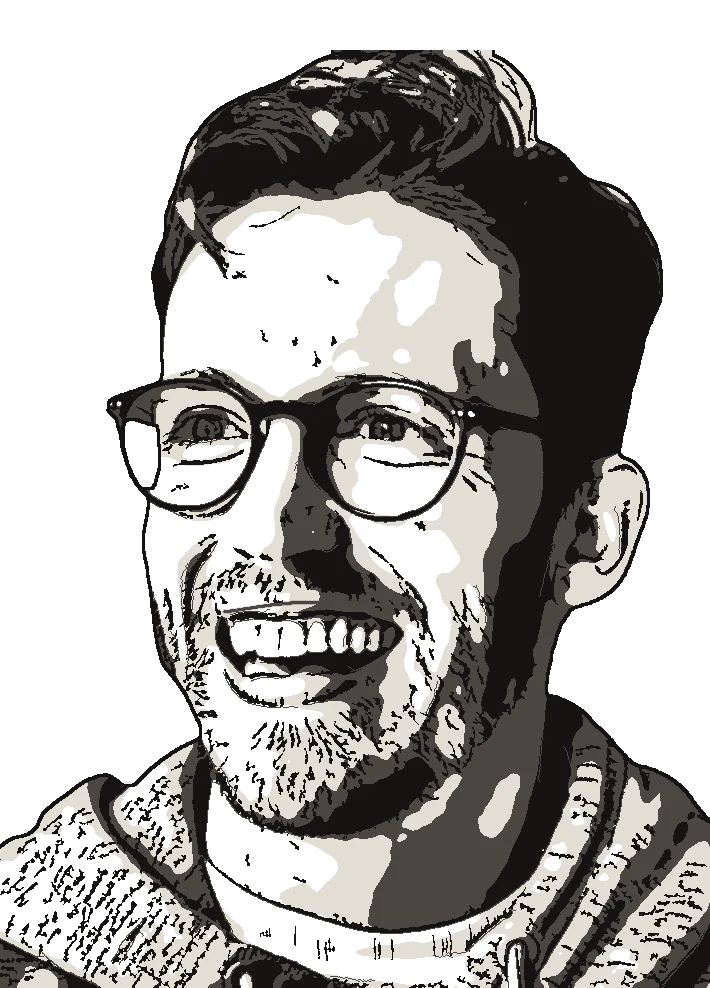
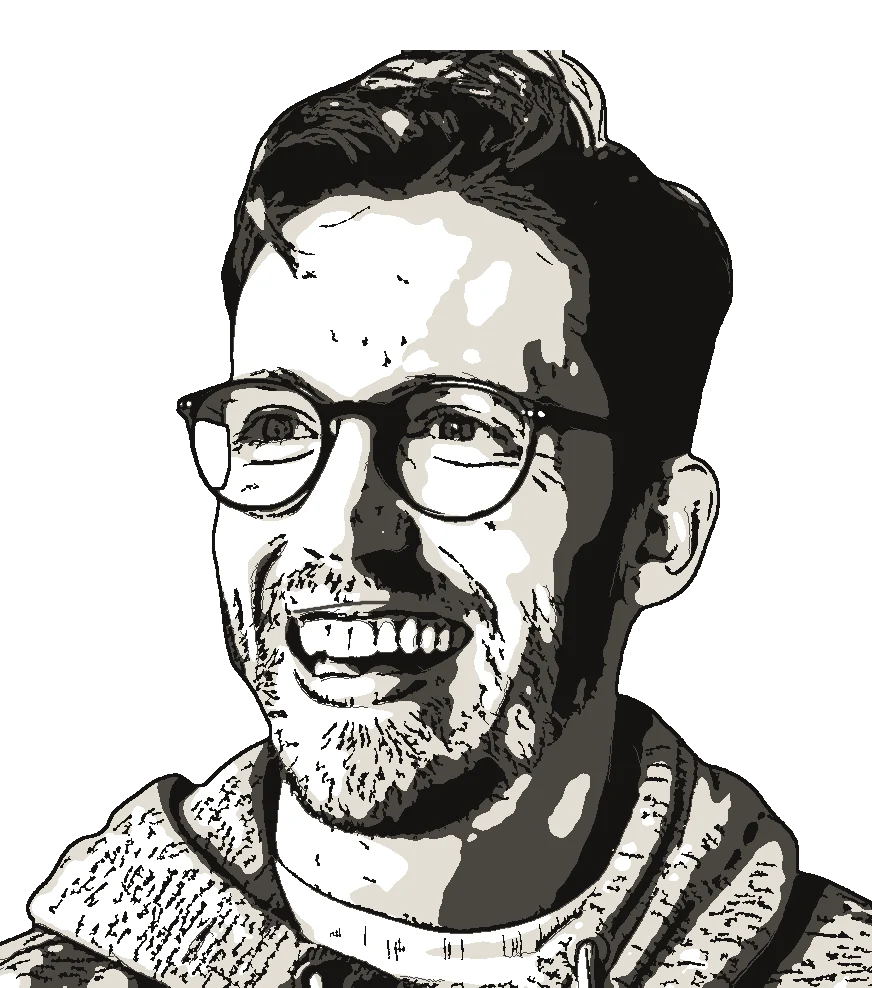
Add files via upload

diff --git a/index.html b/index.html
@@ -13,7 +13,7 @@
 <meta name="theme-color" content="#F6F3ED">
 <link rel="icon" href="favicon.svg" type="image/svg+xml">
 <link rel="preload" href="assets/fonts/FamiljenGrotesk-VF.woff2" as="font" type="font/woff2" crossorigin>
-<link rel="stylesheet" href="assets/css/site.css?v=6">
+<link rel="stylesheet" href="assets/css/site.css?v=7">
 <script>document.documentElement.classList.add('js')</script>
 <script type="application/ld+json">{"@context": "https://schema.org", "@graph": [{"@type": "Person", "name": "Daniel Butler", "jobTitle": "Director of SEO", "email": "mailto:danielkbutler@gmail.com", "url": "https://danielkbutler.github.io/danielbutler/", "address": {"@type": "PostalAddress", "addressLocality": "Evans", "addressRegion": "CO", "addressCountry": "US"}, "worksFor": {"@type": "Organization", "name": "Xcite Media Group"}, "alumniOf": {"@type": "CollegeOrUniversity", "name": "University of Memphis"}, "knowsAbout": ["Search engine optimization", "Local SEO", "Technical SEO", "Content strategy", "Generative engine optimization", "GA4", "Google Search Console"], "sameAs": ["https://www.linkedin.com/in/daniel-butler-956b12199/"]}, {"@type": "WebSite", "name": "Daniel Butler Portfolio", "url": "https://danielkbutler.github.io/danielbutler/"}]}</script>
 </head>
@@ -27,13 +27,11 @@
 
 <section class="wrap" style="padding-top:96px;padding-bottom:96px">
   <div class="hero">
-    <div class="stack" style="gap:32px">
-      <h1 class="display">I build the pages that turn searches into <span class="hl">bookings, calls, and form fills.</span></h1>
-      <p class="lead" style="max-width:640px">Director of SEO with four years in agency SEO. I own strategy for 25 client accounts across healthcare, outdoor recreation, SaaS, and home services. Four case studies below, each with the numbers and the work behind them.</p>
-      <div class="row"><a class="btn" href="#work">See the work<svg class="icon" viewBox="0 0 24 24" aria-hidden="true"><path d="M12 5v14"/><path d="m19 12-7 7-7-7"/></svg></a><a class="btn btn--secondary" href="resume.html"><svg class="icon" viewBox="0 0 24 24" aria-hidden="true"><path d="M15 2H6a2 2 0 0 0-2 2v16a2 2 0 0 0 2 2h12a2 2 0 0 0 2-2V7Z"/><path d="M14 2v4a2 2 0 0 0 2 2h4"/><path d="M16 13H8"/><path d="M16 17H8"/><path d="M10 9H8"/></svg>Résumé</a></div>
-    </div>
-    <figure class="portrait"><div class="portrait__frame" aria-hidden="true"></div><img src="assets/daniel-butler-headshot.webp" width="710" height="988" alt="Illustrated portrait of Daniel Butler" fetchpriority="high"></figure>
-      </div>
+    <h1 class="display hero__h">I build the pages that turn searches into <span class="hl">bookings, calls, and form fills.</span></h1>
+    <p class="lead hero__p">Director of SEO with four years in agency SEO. I own strategy for 25 client accounts across healthcare, outdoor recreation, SaaS, and home services. Four case studies below, each with the numbers and the work behind them.</p>
+    <div class="row hero__cta"><a class="btn" href="#work">See the work<svg class="icon" viewBox="0 0 24 24" aria-hidden="true"><path d="M12 5v14"/><path d="m19 12-7 7-7-7"/></svg></a><a class="btn btn--secondary" href="resume.html"><svg class="icon" viewBox="0 0 24 24" aria-hidden="true"><path d="M15 2H6a2 2 0 0 0-2 2v16a2 2 0 0 0 2 2h12a2 2 0 0 0 2-2V7Z"/><path d="M14 2v4a2 2 0 0 0 2 2h4"/><path d="M16 13H8"/><path d="M16 17H8"/><path d="M10 9H8"/></svg>Résumé</a></div>
+    <figure class="portrait"><div class="portrait__frame" aria-hidden="true"></div><img src="assets/daniel-butler-headshot.webp" width="872" height="988" alt="Illustrated portrait of Daniel Butler" fetchpriority="high"></figure>
+  </div>
 </section>
 <section class="band band--tight">
   <div class="wrap"><h2 class="lbl" style="margin-bottom:20px;font-weight:400">At a glance</h2>
@@ -66,6 +64,6 @@
   </div>
   <div class="footer__bottom"><span>© 2026 Daniel Butler</span><span>Figures from client GSC and GA4 data</span></div>
 </div></footer>
-<script src="assets/js/site.js?v=6" defer></script>
+<script src="assets/js/site.js?v=7" defer></script>
 </body>
 </html>

diff --git a/assets/css/site.css b/assets/css/site.css
@@ -296,11 +296,13 @@ a:hover{color:var(--accent-hover)}
 .toast.is-on{opacity:1;transform:translate(-50%,0)}
 
 /* ---------- Home hero with illustrated portrait ---------- */
-/* Portrait height tracks the headline: about four lines of display type. */
-.hero{display:grid;grid-template-columns:minmax(0,1fr) auto;gap:56px;align-items:start}
-.hero .display{max-width:1000px}
-.portrait{position:relative;margin:0;width:calc(var(--display-1) * 2.75 + 14px);padding:14px 0 0 14px}
+/* Portrait spans from the top of the headline to the bottom of the intro paragraph. */
+.hero{display:grid;grid-template-columns:minmax(0,1fr) minmax(0,5fr);grid-template-columns:minmax(0,1fr) clamp(280px,30vw,440px);column-gap:48px;row-gap:32px}
+.hero__h{grid-column:1;grid-row:1}
+.hero__p{grid-column:1;grid-row:2;max-width:640px}
+.hero__cta{grid-column:1;grid-row:3}
+.portrait{grid-column:2;grid-row:1/3;position:relative;margin:0;padding:14px 0 0 14px;min-height:0}
 .portrait::before{content:"";position:absolute;left:14px;right:0;top:28px;bottom:0;background:var(--accent)}
 .portrait__frame{position:absolute;left:0;right:14px;top:14px;bottom:14px;border:1.5px solid var(--ink-900);pointer-events:none}
-.portrait img{position:relative;display:block;width:100%;height:auto}
-@media (max-width:760px){.hero{grid-template-columns:minmax(0,1fr);gap:32px}.portrait{width:200px;grid-row:1}}
+.portrait img{position:relative;display:block;width:100%;height:100%;object-fit:cover;object-position:50% 15%}
+@media (max-width:900px){.hero{grid-template-columns:minmax(0,1fr)}.portrait{grid-column:1;grid-row:auto;order:-1;width:240px;height:280px}.hero__h,.hero__p,.hero__cta{grid-column:1;grid-row:auto}}

diff --git a/resume.html b/resume.html
@@ -13,7 +13,7 @@
 <meta name="theme-color" content="#F6F3ED">
 <link rel="icon" href="favicon.svg" type="image/svg+xml">
 <link rel="preload" href="assets/fonts/FamiljenGrotesk-VF.woff2" as="font" type="font/woff2" crossorigin>
-<link rel="stylesheet" href="assets/css/site.css?v=6">
+<link rel="stylesheet" href="assets/css/site.css?v=7">
 <script>document.documentElement.classList.add('js')</script>
 <script type="application/ld+json">{"@context": "https://schema.org", "@type": "ProfilePage", "mainEntity": {"@type": "Person", "name": "Daniel Butler", "jobTitle": "Director of SEO", "email": "mailto:danielkbutler@gmail.com", "url": "https://danielkbutler.github.io/danielbutler/", "address": {"@type": "PostalAddress", "addressLocality": "Evans", "addressRegion": "CO", "addressCountry": "US"}, "worksFor": {"@type": "Organization", "name": "Xcite Media Group"}, "alumniOf": {"@type": "CollegeOrUniversity", "name": "University of Memphis"}, "knowsAbout": ["Search engine optimization", "Local SEO", "Technical SEO", "Content strategy", "Generative engine optimization", "GA4", "Google Search Console"], "sameAs": ["https://www.linkedin.com/in/daniel-butler-956b12199/"]}}</script>
 </head>
@@ -68,6 +68,6 @@
   </div>
   <div class="footer__bottom"><span>© 2026 Daniel Butler</span><span>Figures from client GSC and GA4 data</span></div>
 </div></footer>
-<script src="assets/js/site.js?v=6" defer></script>
+<script src="assets/js/site.js?v=7" defer></script>
 </body>
 </html>

diff --git a/case-studies/healthcare-specialty-practice.html b/case-studies/healthcare-specialty-practice.html
@@ -13,7 +13,7 @@
 <meta name="theme-color" content="#F6F3ED">
 <link rel="icon" href="../favicon.svg" type="image/svg+xml">
 <link rel="preload" href="../assets/fonts/FamiljenGrotesk-VF.woff2" as="font" type="font/woff2" crossorigin>
-<link rel="stylesheet" href="../assets/css/site.css?v=6">
+<link rel="stylesheet" href="../assets/css/site.css?v=7">
 <script>document.documentElement.classList.add('js')</script>
 <script type="application/ld+json">{"@context": "https://schema.org", "@type": "Article", "headline": "Took a specialty service from page 6 to page 1", "description": "How new specialty service content for a Denver healthcare practice moved from position 54 to 10, grew clicks 8x, and earned citations in Google's AI Overviews.", "author": {"@type": "Person", "name": "Daniel Butler", "url": "https://danielkbutler.github.io/danielbutler/"}, "about": {"@type": "Organization", "name": "Healthcare client"}, "mainEntityOfPage": "https://danielkbutler.github.io/danielbutler/case-studies/healthcare-specialty-practice.html"}</script>
 </head>
@@ -74,6 +74,6 @@
   </div>
   <div class="footer__bottom"><span>© 2026 Daniel Butler</span><span>Figures from client GSC and GA4 data</span></div>
 </div></footer>
-<script src="../assets/js/site.js?v=6" defer></script>
+<script src="../assets/js/site.js?v=7" defer></script>
 </body>
 </html>

diff --git a/case-studies/river-expeditions.html b/case-studies/river-expeditions.html
@@ -13,7 +13,7 @@
 <meta name="theme-color" content="#F6F3ED">
 <link rel="icon" href="../favicon.svg" type="image/svg+xml">
 <link rel="preload" href="../assets/fonts/FamiljenGrotesk-VF.woff2" as="font" type="font/woff2" crossorigin>
-<link rel="stylesheet" href="../assets/css/site.css?v=6">
+<link rel="stylesheet" href="../assets/css/site.css?v=7">
 <script>document.documentElement.classList.add('js')</script>
 <script type="application/ld+json">{"@context": "https://schema.org", "@type": "Article", "headline": "Moved the core West Virginia rafting page from page two to page one", "description": "How a page rewrite and hub cleanup lifted organic conversions 66% for River Expeditions, a whitewater rafting outfitter on the New River Gorge.", "author": {"@type": "Person", "name": "Daniel Butler", "url": "https://danielkbutler.github.io/danielbutler/"}, "about": {"@type": "Organization", "name": "River Expeditions"}, "mainEntityOfPage": "https://danielkbutler.github.io/danielbutler/case-studies/river-expeditions.html"}</script>
 </head>
@@ -71,6 +71,6 @@
   </div>
   <div class="footer__bottom"><span>© 2026 Daniel Butler</span><span>Figures from client GSC and GA4 data</span></div>
 </div></footer>
-<script src="../assets/js/site.js?v=6" defer></script>
+<script src="../assets/js/site.js?v=7" defer></script>
 </body>
 </html>

diff --git a/case-studies/indian-head-canoes.html b/case-studies/indian-head-canoes.html
@@ -13,7 +13,7 @@
 <meta name="theme-color" content="#F6F3ED">
 <link rel="icon" href="../favicon.svg" type="image/svg+xml">
 <link rel="preload" href="../assets/fonts/FamiljenGrotesk-VF.woff2" as="font" type="font/woff2" crossorigin>
-<link rel="stylesheet" href="../assets/css/site.css?v=6">
+<link rel="stylesheet" href="../assets/css/site.css?v=7">
 <script>document.documentElement.classList.add('js')</script>
 <script type="application/ld+json">{"@context": "https://schema.org", "@type": "Article", "headline": "Turned a key launch point into a booking driver", "description": "How a full rebuild of the Knights Eddy page grew its sessions 4x and helped lift revenue 7.3% for Indian Head Canoes, an Upper Delaware River outfitter.", "author": {"@type": "Person", "name": "Daniel Butler", "url": "https://danielkbutler.github.io/danielbutler/"}, "about": {"@type": "Organization", "name": "Indian Head Canoes"}, "mainEntityOfPage": "https://danielkbutler.github.io/danielbutler/case-studies/indian-head-canoes.html"}</script>
 </head>
@@ -71,6 +71,6 @@
   </div>
   <div class="footer__bottom"><span>© 2026 Daniel Butler</span><span>Figures from client GSC and GA4 data</span></div>
 </div></footer>
-<script src="../assets/js/site.js?v=6" defer></script>
+<script src="../assets/js/site.js?v=7" defer></script>
 </body>
 </html>

diff --git a/case-studies/all-for-kids.html b/case-studies/all-for-kids.html
@@ -13,7 +13,7 @@
 <meta name="theme-color" content="#F6F3ED">
 <link rel="icon" href="../favicon.svg" type="image/svg+xml">
 <link rel="preload" href="../assets/fonts/FamiljenGrotesk-VF.woff2" as="font" type="font/woff2" crossorigin>
-<link rel="stylesheet" href="../assets/css/site.css?v=6">
+<link rel="stylesheet" href="../assets/css/site.css?v=7">
 <script>document.documentElement.classList.add('js')</script>
 <script type="application/ld+json">{"@context": "https://schema.org", "@type": "Article", "headline": "Connected parents with the care their child needed", "description": "How audience research and new program pages lifted organic form fills and calls 55% for All for Kids, a Colorado pediatric home health provider.", "author": {"@type": "Person", "name": "Daniel Butler", "url": "https://danielkbutler.github.io/danielbutler/"}, "about": {"@type": "Organization", "name": "All for Kids Home Health"}, "mainEntityOfPage": "https://danielkbutler.github.io/danielbutler/case-studies/all-for-kids.html"}</script>
 </head>
@@ -71,6 +71,6 @@
   </div>
   <div class="footer__bottom"><span>© 2026 Daniel Butler</span><span>Figures from client GSC and GA4 data</span></div>
 </div></footer>
-<script src="../assets/js/site.js?v=6" defer></script>
+<script src="../assets/js/site.js?v=7" defer></script>
 </body>
 </html>

diff --git a/writing.html b/writing.html
@@ -13,7 +13,7 @@
 <meta name="theme-color" content="#F6F3ED">
 <link rel="icon" href="favicon.svg" type="image/svg+xml">
 <link rel="preload" href="assets/fonts/FamiljenGrotesk-VF.woff2" as="font" type="font/woff2" crossorigin>
-<link rel="stylesheet" href="assets/css/site.css?v=6">
+<link rel="stylesheet" href="assets/css/site.css?v=7">
 <script>document.documentElement.classList.add('js')</script>
 <script type="application/ld+json">{"@context": "https://schema.org", "@type": "CollectionPage", "name": "Writing samples", "author": {"@type": "Person", "name": "Daniel Butler"}}</script>
 </head>
@@ -60,6 +60,6 @@
   </div>
   <div class="footer__bottom"><span>© 2026 Daniel Butler</span><span>Figures from client GSC and GA4 data</span></div>
 </div></footer>
-<script src="assets/js/site.js?v=6" defer></script>
+<script src="assets/js/site.js?v=7" defer></script>
 </body>
 </html>

diff --git a/approach.html b/approach.html
@@ -13,7 +13,7 @@
 <meta name="theme-color" content="#F6F3ED">
 <link rel="icon" href="favicon.svg" type="image/svg+xml">
 <link rel="preload" href="assets/fonts/FamiljenGrotesk-VF.woff2" as="font" type="font/woff2" crossorigin>
-<link rel="stylesheet" href="assets/css/site.css?v=6">
+<link rel="stylesheet" href="assets/css/site.css?v=7">
 <script>document.documentElement.classList.add('js')</script>
 <script type="application/ld+json">{"@context": "https://schema.org", "@type": "WebPage", "name": "Approach", "author": {"@type": "Person", "name": "Daniel Butler"}}</script>
 </head>
@@ -81,6 +81,6 @@
   </div>
   <div class="footer__bottom"><span>© 2026 Daniel Butler</span><span>Figures from client GSC and GA4 data</span></div>
 </div></footer>
-<script src="assets/js/site.js?v=6" defer></script>
+<script src="assets/js/site.js?v=7" defer></script>
 </body>
 </html>

diff --git a/404.html b/404.html
@@ -13,7 +13,7 @@
 <meta name="theme-color" content="#F6F3ED">
 <link rel="icon" href="favicon.svg" type="image/svg+xml">
 <link rel="preload" href="assets/fonts/FamiljenGrotesk-VF.woff2" as="font" type="font/woff2" crossorigin>
-<link rel="stylesheet" href="assets/css/site.css?v=6">
+<link rel="stylesheet" href="assets/css/site.css?v=7">
 <script>document.documentElement.classList.add('js')</script>
 
 </head>
@@ -37,6 +37,6 @@
   </div>
   <div class="footer__bottom"><span>© 2026 Daniel Butler</span><span>Figures from client GSC and GA4 data</span></div>
 </div></footer>
-<script src="assets/js/site.js?v=6" defer></script>
+<script src="assets/js/site.js?v=7" defer></script>
 </body>
 </html>
